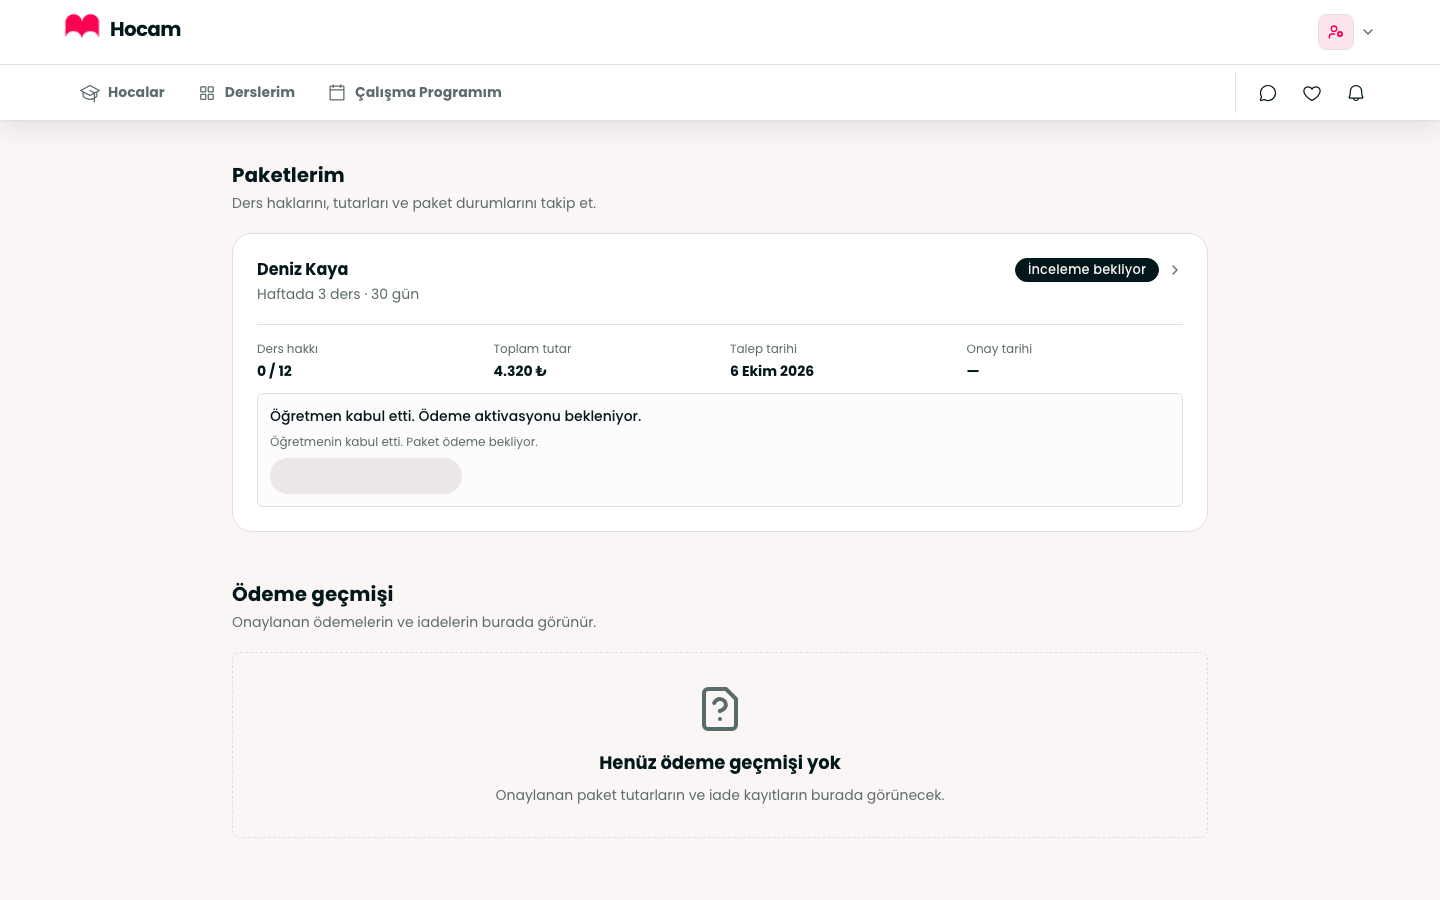
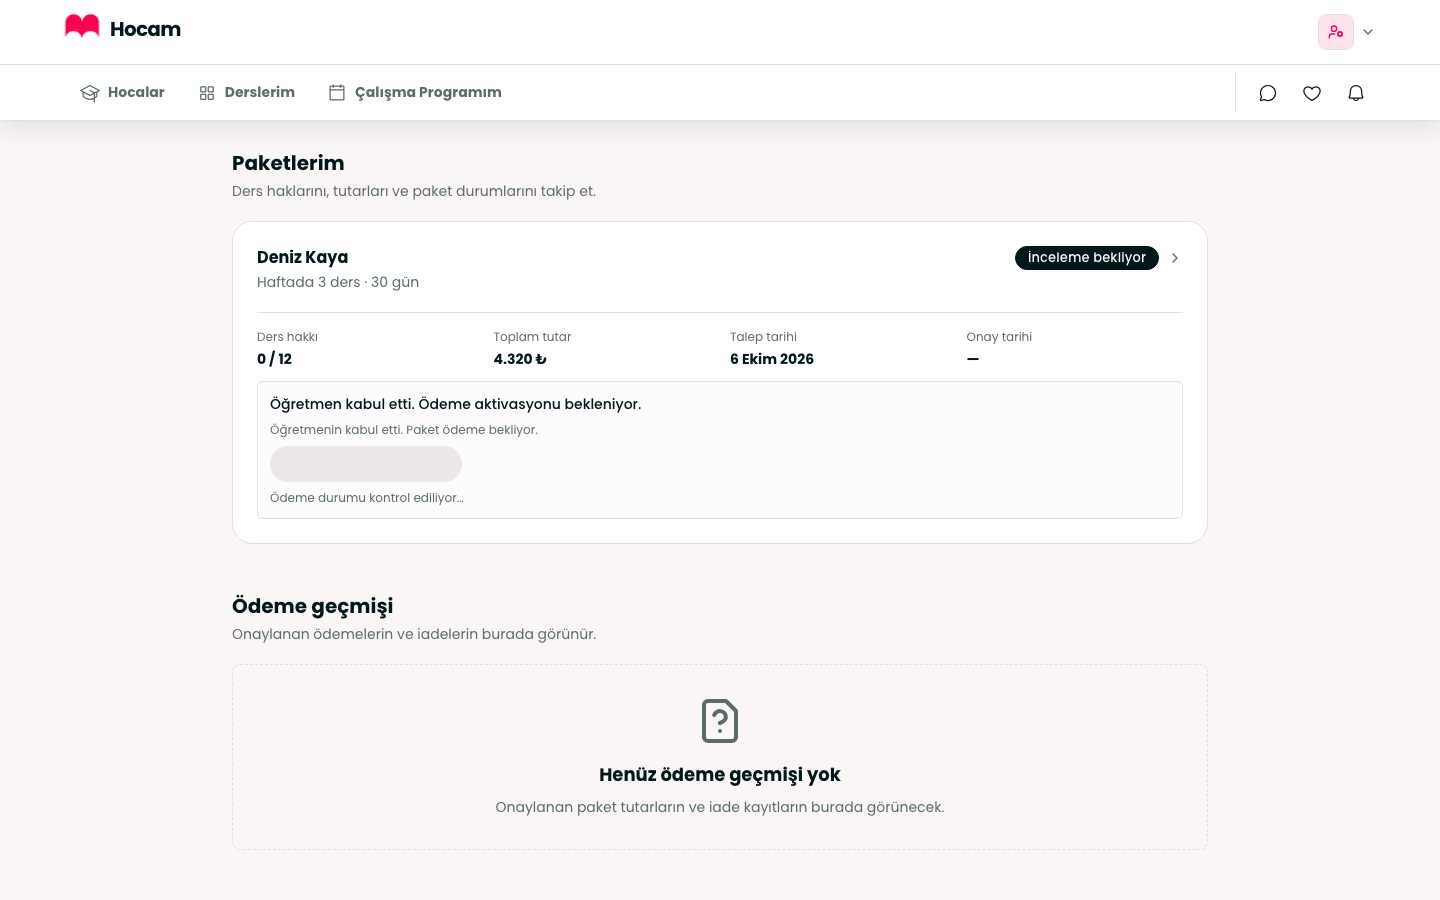
Say in words what the loading payment state is waiting for
The loading state on the package card and on the checkout result showed
only a grey pill; the "Ödeme durumu kontrol ediliyor" label was sr-only,
so a sighted student could not tell what the card was waiting for. The
line is now visible text ("Ödeme durumu kontrol ediliyor…", text-xs,
muted) inside the same role="status" region, shown at once; the skeleton
still follows only after the usual 200ms. No button or link appears while
loading. Flag-off markup is unchanged (characterization tests pass).

Loading screenshots at 375px and 1440px recaptured; the other states'
code did not change, so their images are left as they were.

diff --git a/src/components/payments/PackageRequestStatus.tsx b/src/components/payments/PackageRequestStatus.tsx
@@ -146,13 +146,15 @@ export function PackageRequestStatus({
       </Button>
     ) : null;
 
-  // Nothing to act on until the server has answered.
+  // Nothing to act on until the server has answered. The line is visible
+  // at once so the student knows what the card is waiting for; the shape
+  // only follows if the wait is long enough to notice.
   const statusPending = statusLoading ? (
-    <div role="status" aria-busy="true">
-      <span className="sr-only">Ödeme durumu kontrol ediliyor</span>
+    <div role="status" aria-busy="true" className="space-y-2">
       {showLoadingPlaceholder ? (
         <Skeleton className="h-9 w-48 rounded-pill" />
       ) : null}
+      <p className="text-xs text-muted-foreground">Ödeme durumu kontrol ediliyor…</p>
     </div>
   ) : null;
 

diff --git a/src/components/payments/PackageRequestStatus.paytrServer.test.tsx b/src/components/payments/PackageRequestStatus.paytrServer.test.tsx
@@ -212,7 +212,10 @@ describe("PackageRequestStatus reads the server's payment status", () => {
 
     // The acceptance answer is in and rendered; only payment status is missing.
     await screen.findByText("Öğretmenin kabul etti. Paket ödeme bekliyor.");
-    screen.getByText("Ödeme durumu kontrol ediliyor");
+    // A line the student can read, not only a screen-reader label.
+    const line = screen.getByText("Ödeme durumu kontrol ediliyor…");
+    assert.doesNotMatch(line.className, /sr-only/);
+    assert.ok(line.closest('[role="status"]'), "announced as a status");
     assert.deepEqual(screen.queryAllByRole("button"), []);
     assert.deepEqual(screen.queryAllByRole("link"), []);
 

diff --git a/src/components/checkout/CheckoutSuccess.tsx b/src/components/checkout/CheckoutSuccess.tsx
@@ -99,11 +99,11 @@ export function CheckoutPurchaseSuccess({
         </p>
 
         {paymentCheck === "checking" ? (
-          <div role="status" aria-busy="true" className="flex justify-center">
-            <span className="sr-only">Ödeme durumu kontrol ediliyor</span>
+          <div role="status" aria-busy="true" className="flex flex-col items-center gap-2">
             {showCheckPlaceholder ? (
               <Skeleton className="h-10 w-56 rounded-pill" />
             ) : null}
+            <p className="text-xs text-muted-foreground">Ödeme durumu kontrol ediliyor…</p>
           </div>
         ) : null}
         {paymentCheck === "status_error" ? (

diff --git a/src/components/payments/paytr/usePayTRPostCreate.test.tsx b/src/components/payments/paytr/usePayTRPostCreate.test.tsx
@@ -271,8 +271,11 @@ describe("usePayTRPostCreate with PayTR on", () => {
       });
     renderScreen();
 
-    await screen.findByText("Ödeme durumu kontrol ediliyor");
-    assert.equal(screen.queryByRole("button", { name: "Yenile" }), null);
+    const line = await screen.findByText("Ödeme durumu kontrol ediliyor…");
+    assert.doesNotMatch(line.className, /sr-only/);
+    assert.ok(line.closest('[role="status"]'), "announced as a status");
+    // The card's own navigation links stay; no button of any kind appears.
+    assert.deepEqual(screen.queryAllByRole("button"), []);
     assert.deepEqual(pushes, []);
 
     release();
